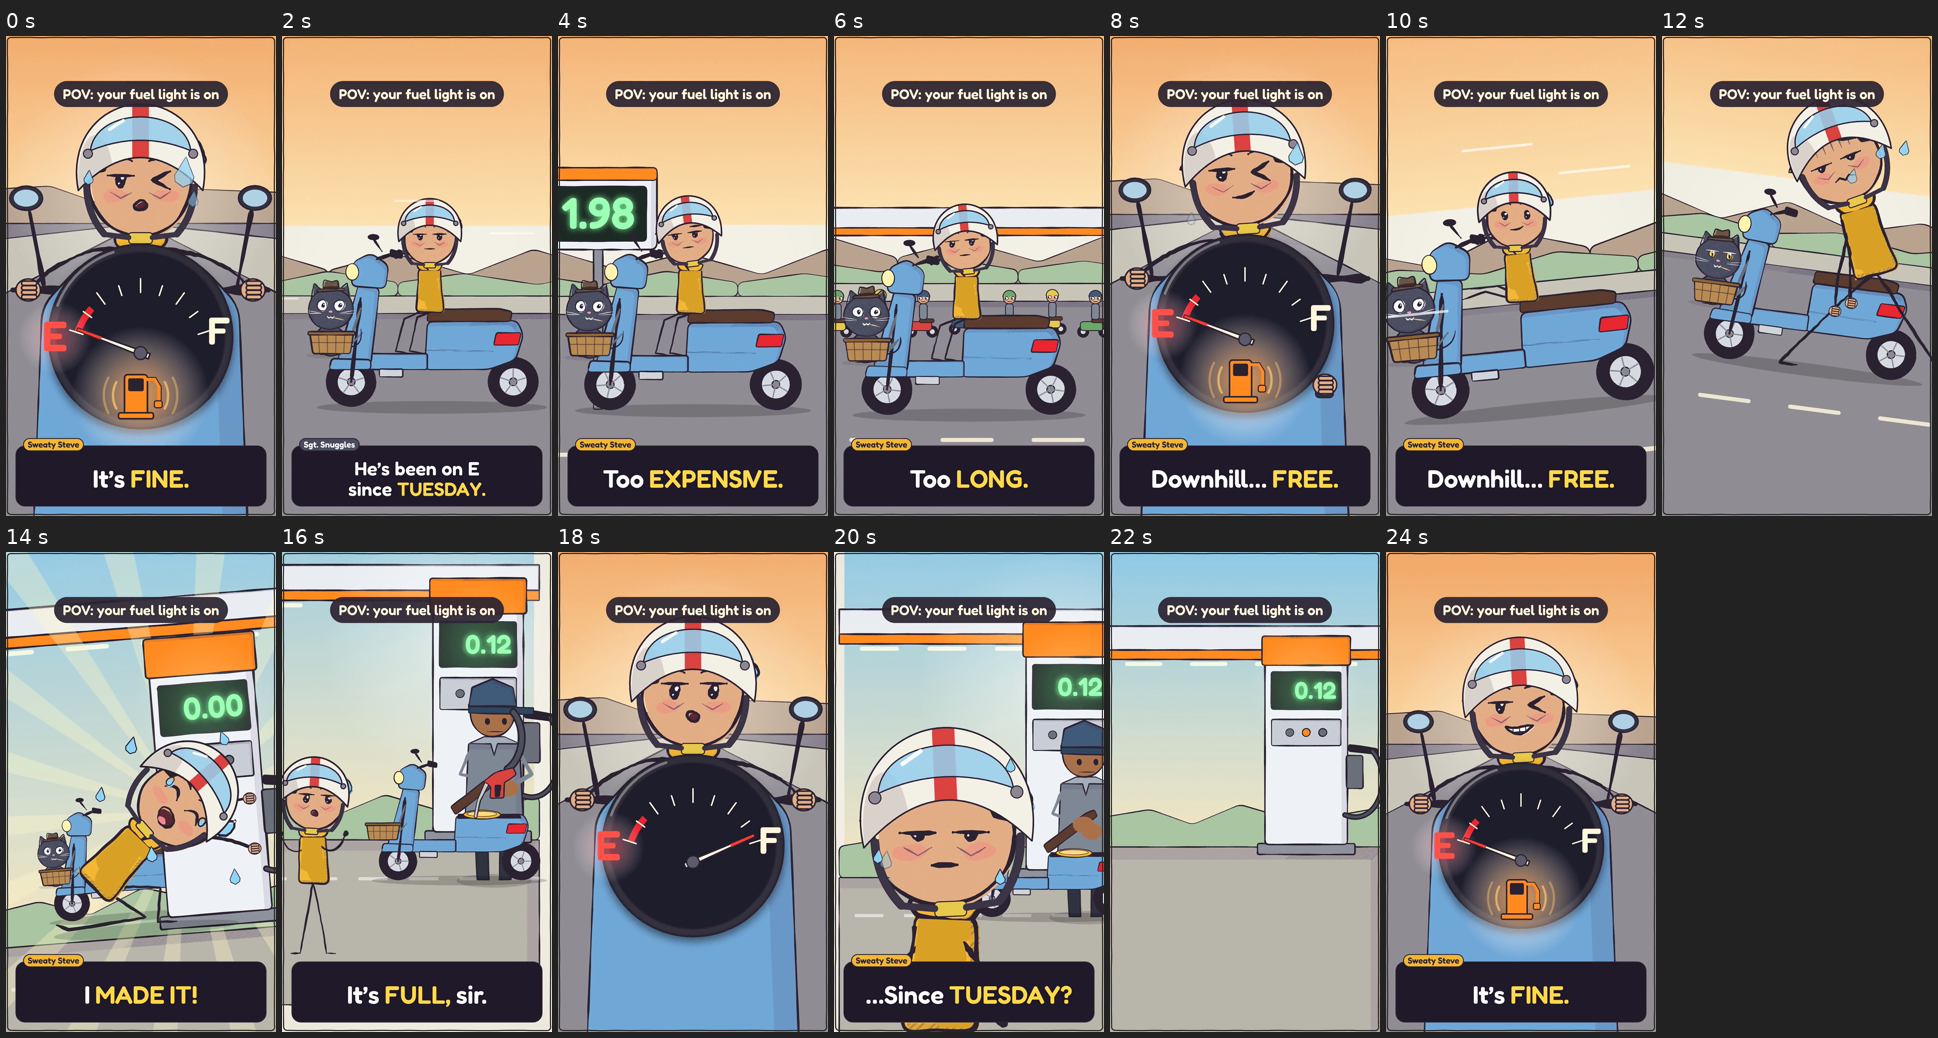
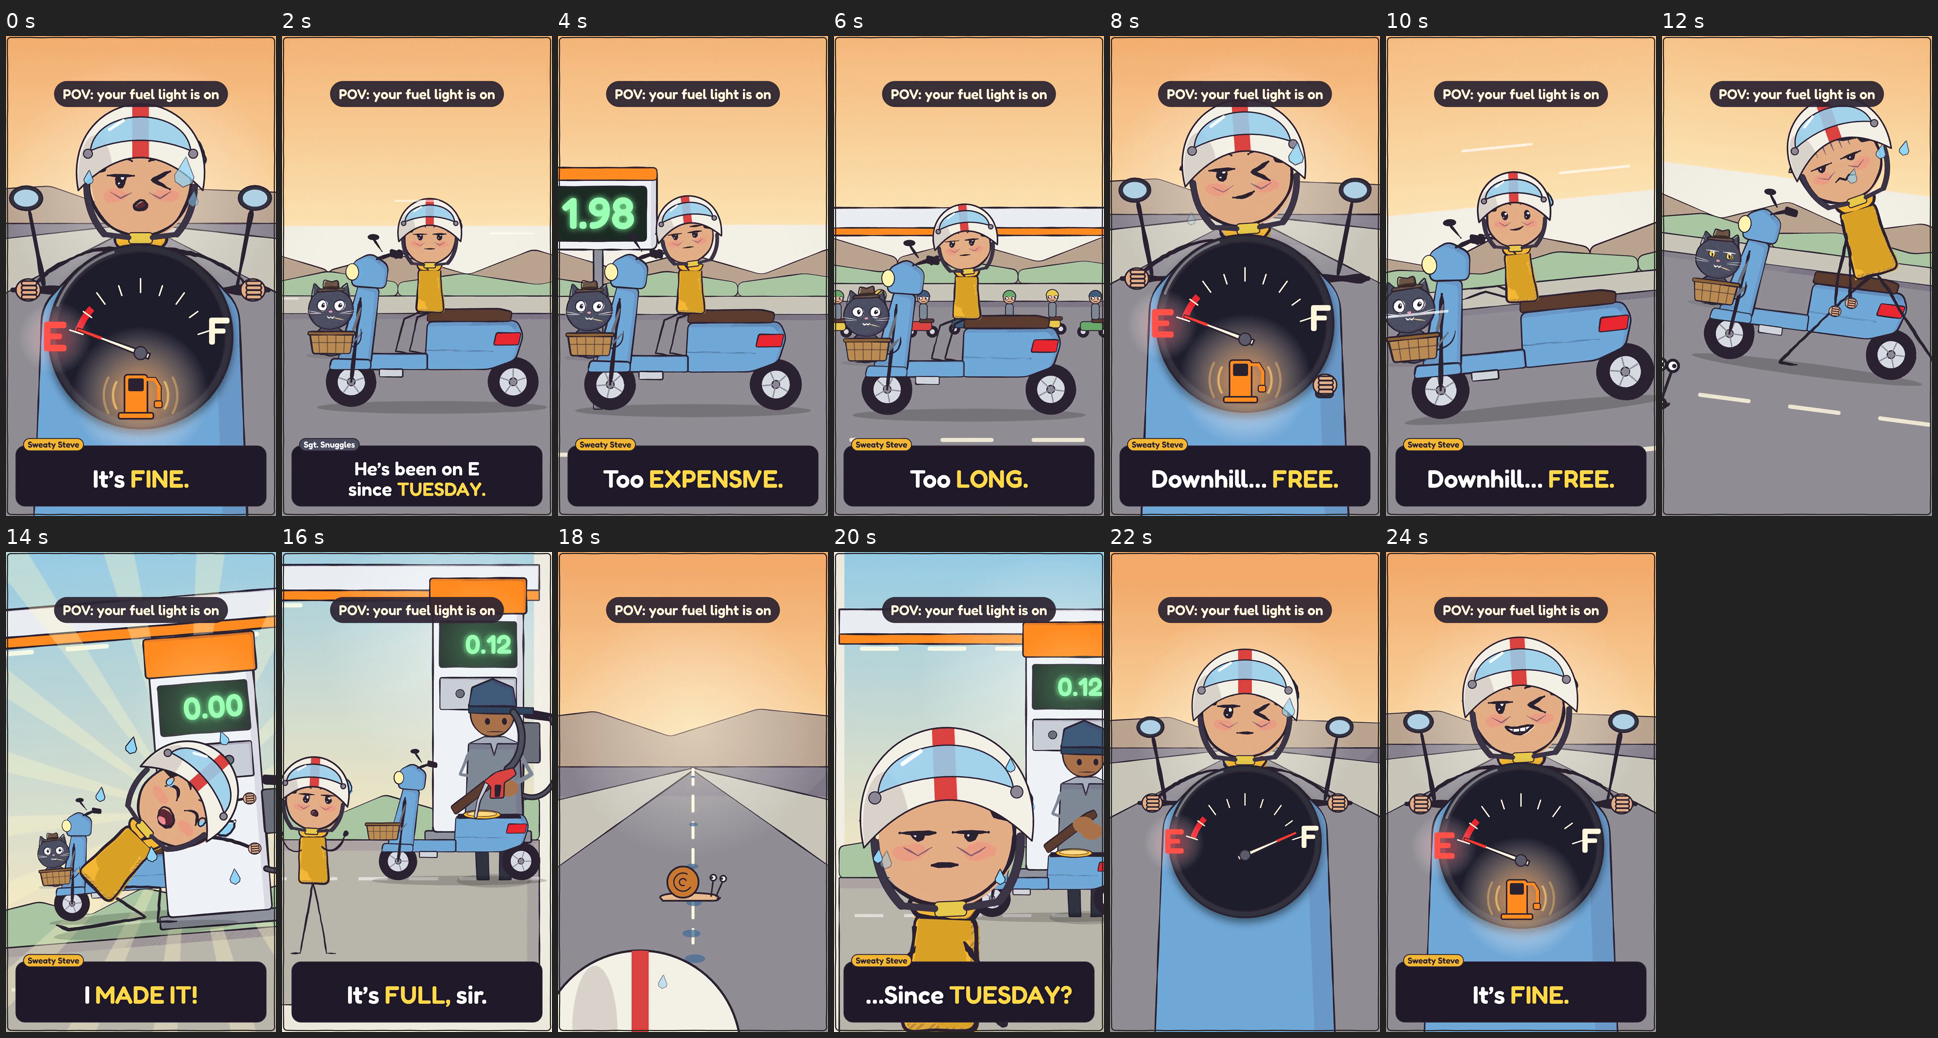
Tập 12 On Empty: render v2 (no empty forecourt, bigger snail, 7b/7c 0.9 s each)

Changed region(s): [[0.5573, 0.5241, 0.7121, 1.0], [0.2786, 0.5857, 0.4334, 1.0], [0.8359, 0.3391, 0.8669, 0.3699]]

diff --git a/episodes/21-next/film/scene.js b/episodes/21-next/film/scene.js
@@ -124,7 +124,7 @@ function snail(t, x, y, k, o = {}) {   // shell + body + two eyestalks. o.wave: 
   ctx.fillStyle = '#e8b98a'; ctx.beginPath(); ctx.moveTo(-110, 0); ctx.bezierCurveTo(-120, -26, 100, -24, 118, -6); ctx.bezierCurveTo(130, 6, 118, 12, 100, 12); ctx.lineTo(-100, 12); ctx.closePath(); ctx.fill(); ctx.stroke();   // foot/body
   ctx.fillStyle = '#c9772e'; ctx.beginPath(); ctx.arc(-20, -62, 62, 0, 7); ctx.fill(); ctx.stroke();
   ctx.lineWidth = 5; ctx.beginPath(); ctx.arc(-20, -62, 36, 0.6, 5.2); ctx.stroke(); ctx.beginPath(); ctx.arc(-20, -62, 14, 1.2, 5.8); ctx.stroke();
-  const w = o.wave ? 0.5 * Math.sin(t * 14) : 0;
+  const w = o.wave ? 0.75 * Math.sin(t * 10) : 0;
   for (const [sx0, a] of [[92, -0.15], [112, 0.12 + w]]) { ctx.lineWidth = 6; ctx.beginPath(); ctx.moveTo(sx0, -6); ctx.lineTo(sx0 + 22 * Math.sin(a) + 12, -60 - 14 * Math.cos(a)); ctx.stroke();
     ctx.fillStyle = '#fff'; ctx.beginPath(); ctx.arc(sx0 + 22 * Math.sin(a) + 12, -66 - 14 * Math.cos(a), 12, 0, 7); ctx.fill(); ctx.stroke(); ctx.fillStyle = INK; ctx.beginPath(); ctx.arc(sx0 + 22 * Math.sin(a) + 12 + (o.look ? -5 : 3), -66 - 14 * Math.cos(a), 4.5, 0, 7); ctx.fill(); }
   ctx.lineWidth = 5; ctx.beginPath(); ctx.arc(122, -2, 7, 0.2, 2.6); ctx.stroke();   // little smile
@@ -225,8 +225,8 @@ function pushUp(t) {
   fist(840, 1400, 0.6); fist(900, 1360, 0.6);
   for (const [x0, per, off] of [[1000, 0.7, 0], [900, 0.9, 0.3], [1090, 0.6, 0.5]]) sweatDrip(t, x0 - 60, 700, per, off, 24, 380);
   // wet footprints / sweat trail dots behind him are on the road; the snail slides past in the foreground
-  const sx = kf(t, [[12.7, -380], [14.0, 1250]], x => x), sy = 1830;
-  snail(t, sx, sy, 0.95, { look: t > 13.4, wave: false });
+  const sx = kf(t, [[12.7, -330], [13.1, 150], [14.0, 700]], x => x), sy = 1850;
+  snail(t, sx, sy, 1.9, { look: t > 13.15, wave: false });
   ctx.restore();
 }
 // H · 6 peak: station 3, he collapses onto the pump and hugs it (still 2, animated)
@@ -291,7 +291,7 @@ function roadBehind(t) {
   ctx.save(); ctx.strokeStyle = '#fff6dc'; ctx.lineWidth = 12; ctx.lineCap = 'round'; ctx.setLineDash([60, 46]); ctx.beginPath(); ctx.moveTo(540, hz + 10); ctx.lineTo(540, 1500); ctx.stroke(); ctx.restore();
   glowBlob(540, 640, 520, 'rgba(255,230,170,0.5)');
   for (let i = 0; i < 9; i++) { const k = 1 - i / 9, y = hz + 40 + (1 - k * k) * 900, r = 7 + 30 * (1 - k * k) * 1.0; ctx.fillStyle = 'rgba(70,110,150,0.75)'; ctx.beginPath(); ctx.ellipse(540 + (i % 2 ? 14 : -14) * (1 - k), y, r * 1.3, r * 0.55, 0, 0, 7); ctx.fill(); }
-  snail(t, 560, hz + 62, 0.2, { wave: true, look: true });
+  snail(t, 520, hz + 520, 1.0, { wave: true, look: true });
   // back of the helmet, bottom-left
   ctx.save(); ctx.translate(330, 1930); const hs = 1.0; ctx.fillStyle = '#f4efe4'; ctx.strokeStyle = INK; ctx.lineWidth = 9; ctx.beginPath(); ctx.arc(0, 0, 400 * hs, Math.PI, 0); ctx.closePath(); ctx.fill(); ctx.stroke();
   ctx.save(); ctx.clip(); ctx.fillStyle = '#d9423e'; ctx.fillRect(-34, -440, 68, 440); ctx.fillStyle = 'rgba(42,34,48,0.14)'; ctx.beginPath(); ctx.ellipse(-180, -80, 90, 260, 0, 0, 7); ctx.fill(); ctx.restore(); ctx.restore();
@@ -316,7 +316,7 @@ function punch(t) {
 }
 // M · button a: he rides off past the station, left
 function rideOff(t) {
-  forecourt(onTwos(t), 1180); const q = seg(t, 22.0, 23.1), x = lerp(640, -900, q * q * 1.0);
+  forecourt(onTwos(t), 1180); const q = seg(t, 22.0, 23.0), x = lerp(640, -420, q * q);
   const p = spen(onTwos(t), 9, 5); p.part([[-20, 1180], [1100, 1180], [1100, 1950], [-20, 1950]], '#b9b4aa', { shade: 0.1, lw: 5 });
   pump(onTwos(t), 620, 330, 330, 880, '0.12');
   bike(t, x, 1640, 0.98, { spin: -t * 11 * q, snug: { ...SNUG, tail: 0.7 }, ride: { face: { mouth: 'line', lid: 0.35, brow: 'raised', look: -0.8 } } });
@@ -364,13 +364,13 @@ function build() {
     // 12 · 7b (silent): the gauge, tap, needle to F
     [17.9, t => { cam(kf(t, [[17.9, 1.0], [19.0, 1.05]]), 540, 980, () => tapF(t)); }],
     // 13 · 7c (silent): the road behind him, the snail waves
-    [19.0, t => { cam(kf(t, [[19.0, 1.0], [19.7, 1.1]]), 540, 900, () => roadBehind(t)); }],
+    [18.8, t => { cam(kf(t, [[18.8, 1.0], [19.7, 1.1]]), 540, 900, () => roadBehind(t)); }],
     // 14 · face hold 0.7 s (blink, drip), then s8a punch
     [19.7, t => { cam(kf(t, [[19.7, 1.0], [22.0, 1.07]], t2 => t2), 480, 1000, () => punch(t)); }],
     // 15 · button a: rides off
     [22.0, t => { rideOff(t); }],
     // 16 · button b + loop: needle drops back to E, glance, "It's FINE.", push-in = frame 1
-    [23.0, t => { loopDash(t); }],
+    [22.7, t => { loopDash(t); }],
   ];
 }
 
